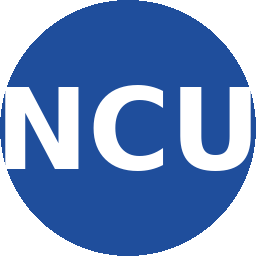
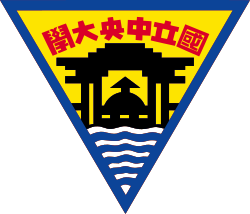
Fix experience page width, card alignment, and typography

diff --git a/assets/css/custom.css b/assets/css/custom.css
@@ -1,0 +1,63 @@
+/* ---------------------------------------------------------------------------
+   Site-specific overrides. Loaded after global.css, so anything here wins.
+   Keep template files untouched and put personal tweaks in this file.
+   --------------------------------------------------------------------------- */
+
+/* Base type: the template runs a little small and tight for long-form bullets. */
+body {
+    font-size: 1.02rem;
+    line-height: 1.6;
+}
+
+/* Bio and bullet copy: the main reading surface. */
+.text-profile-bio {
+    font-size: 1.02rem;
+    line-height: 1.65;
+}
+
+.text-profile-bio p {
+    margin-bottom: 0.9rem;
+}
+
+.text-profile-bio ul li {
+    margin-bottom: 0.45rem;
+}
+
+/* Bootstrap's .small is used for a lot of real content in this template
+   (dates, departments, publication metadata), so lift it off the floor. */
+.small, small {
+    font-size: 0.9rem;
+}
+
+/* Breathing room between cards. */
+.card {
+    margin-bottom: 0.25rem;
+}
+
+.card-body {
+    padding: 1.6rem !important;
+}
+
+/* Section headings on the Experience / Publications pages. */
+h2 {
+    margin-top: 2.2rem;
+    margin-bottom: 1rem;
+}
+
+/* Education / Experience summary rows on the homepage. */
+.media + .media,
+ul.list-unstyled > li.media + li.media {
+    margin-top: 0.7rem !important;
+}
+
+/* Tech tags: slightly larger, a touch more padding. */
+.badge {
+    font-size: 0.8rem;
+    padding: 0.35em 0.6em;
+    font-weight: 400;
+}
+
+/* Portrait: soften the corners so it matches the card radius. */
+.figure-img {
+    border-radius: 0.6rem;
+}

diff --git a/publications.html b/publications.html
@@ -9,7 +9,8 @@ body_attr: >-
 {% assign pubs_by_year = site.publications | sort: "date" | reverse | group_by_exp: "item", "item.date | date: '%Y'" %}
 
 <div class="row">
-    <div class="col-12 col-lg-10">
+    {% assign num_years = pubs_by_year | size %}
+    <div class="col-12 {% if num_years > 1 %}col-lg-10{% endif %}">
         {% for year in pubs_by_year %}
         {% assign num_papers = year.items | size %}
         <h2 class="pt-4" id="year-{{ year.name }}">{{ year.name }}</h2>
@@ -21,6 +22,7 @@ body_attr: >-
         {% endfor %}
     </div>
 
+    {% if num_years > 1 %}
     <div class="col-2 d-none d-lg-block">
         <div id="navbar-year" class="nav nav-pills flex-column sticky-top" style="top: 80px">
             {% for year in pubs_by_year %}
@@ -28,5 +30,6 @@ body_attr: >-
             {% endfor %}
         </div>
     </div>
+    {% endif %}
 
 </div>

diff --git a/_layouts/default.html b/_layouts/default.html
@@ -15,6 +15,7 @@
     <link href="https://fonts.googleapis.com/css2?family=Lato:ital,wght@0,300;0,400;0,700;0,900;1,300;1,400;1,700;1,900&family=Fira+Sans:ital,wght@0,100;0,200;0,300;0,400;0,500;0,600;0,700;0,800;0,900;1,100;1,200;1,300;1,400;1,500;1,600;1,700;1,800;1,900&family=Source+Code+Pro:ital,wght@0,200..900;1,200..900&display=swap" rel="stylesheet">
     <link rel="stylesheet" href="https://cdn.jsdelivr.net/npm/katex@0.16.11/dist/katex.min.css" integrity="sha384-nB0miv6/jRmo5UMMR1wu3Gz6NLsoTkbqJghGIsx//Rlm+ZU03BU6SQNC66uf4l5+" crossorigin="anonymous">
     <link rel="stylesheet" href="{{ '/assets/css/global.css' | relative_url }}">
+    <link rel="stylesheet" href="{{ '/assets/css/custom.css' | relative_url }}">
 </head>
 <body class="bg-light" {{ page.body_attr }}>
     {% include navbar.html %}

diff --git a/experience.html b/experience.html
@@ -5,7 +5,7 @@ navbar_title: Experience
 ---
 
 <div class="row">
-    <div class="col-12 col-lg-10">
+    <div class="col-12">
 
         <h2 class="pt-4">Work Experience</h2>
         {% for item in site.data.cv.work %}
@@ -28,11 +28,5 @@ navbar_title: Experience
             </div>
         </div>
 
-    </div>
-
-    <div class="col-2 d-none d-lg-block">
-        <div class="nav nav-pills flex-column sticky-top" style="top: 80px">
-            <a class="nav-link d-block" href="#">Top</a>
-        </div>
     </div>
 </div>

diff --git a/assets/images/badges/README-logos.md b/assets/images/badges/README-logos.md
@@ -1,0 +1,34 @@
+# Logo files
+
+These five PNGs are placeholders (coloured circles with initials). Replace them
+with the real marks and everything on the site picks them up automatically —
+the filenames are already wired into `_data/profile.yml` and `_data/cv.yml`.
+
+| File | Organisation | Where to get it |
+|---|---|---|
+| `cmu.png` | Carnegie Mellon University | https://www.cmu.edu/brand/brand-guidelines/ |
+| `ncu.png` | National Central University (used for both the WASN Lab and the College of Hakka Studies rows) | https://www.ncu.edu.tw/ |
+| `asus.png` | ASUS | https://www.asus.com/ (press / brand assets) |
+| `roommuse.png` | RoomMuse | ask the team for the app icon |
+| `aipost.png` | AI POST | site logo / favicon |
+
+## What the file should look like
+
+- **Square.** The site renders them at 18px (homepage summary) and 34px
+  (Experience page cards), so anything non-square gets squashed.
+- **Transparent background** (PNG), or a solid background that reads fine as a
+  small square.
+- **256×256 or larger.** Smaller than that goes blurry on retina screens.
+- Keep the exact filenames above — do not rename.
+- The mark alone works better than mark + wordmark; a wordmark shrunk to 18px
+  is unreadable.
+
+Drop the files in, then:
+
+```bash
+git add -A
+git commit -m "Replace placeholder badges with real logos"
+git push
+```
+
+`wasn.png` is no longer referenced by anything and can be deleted.
